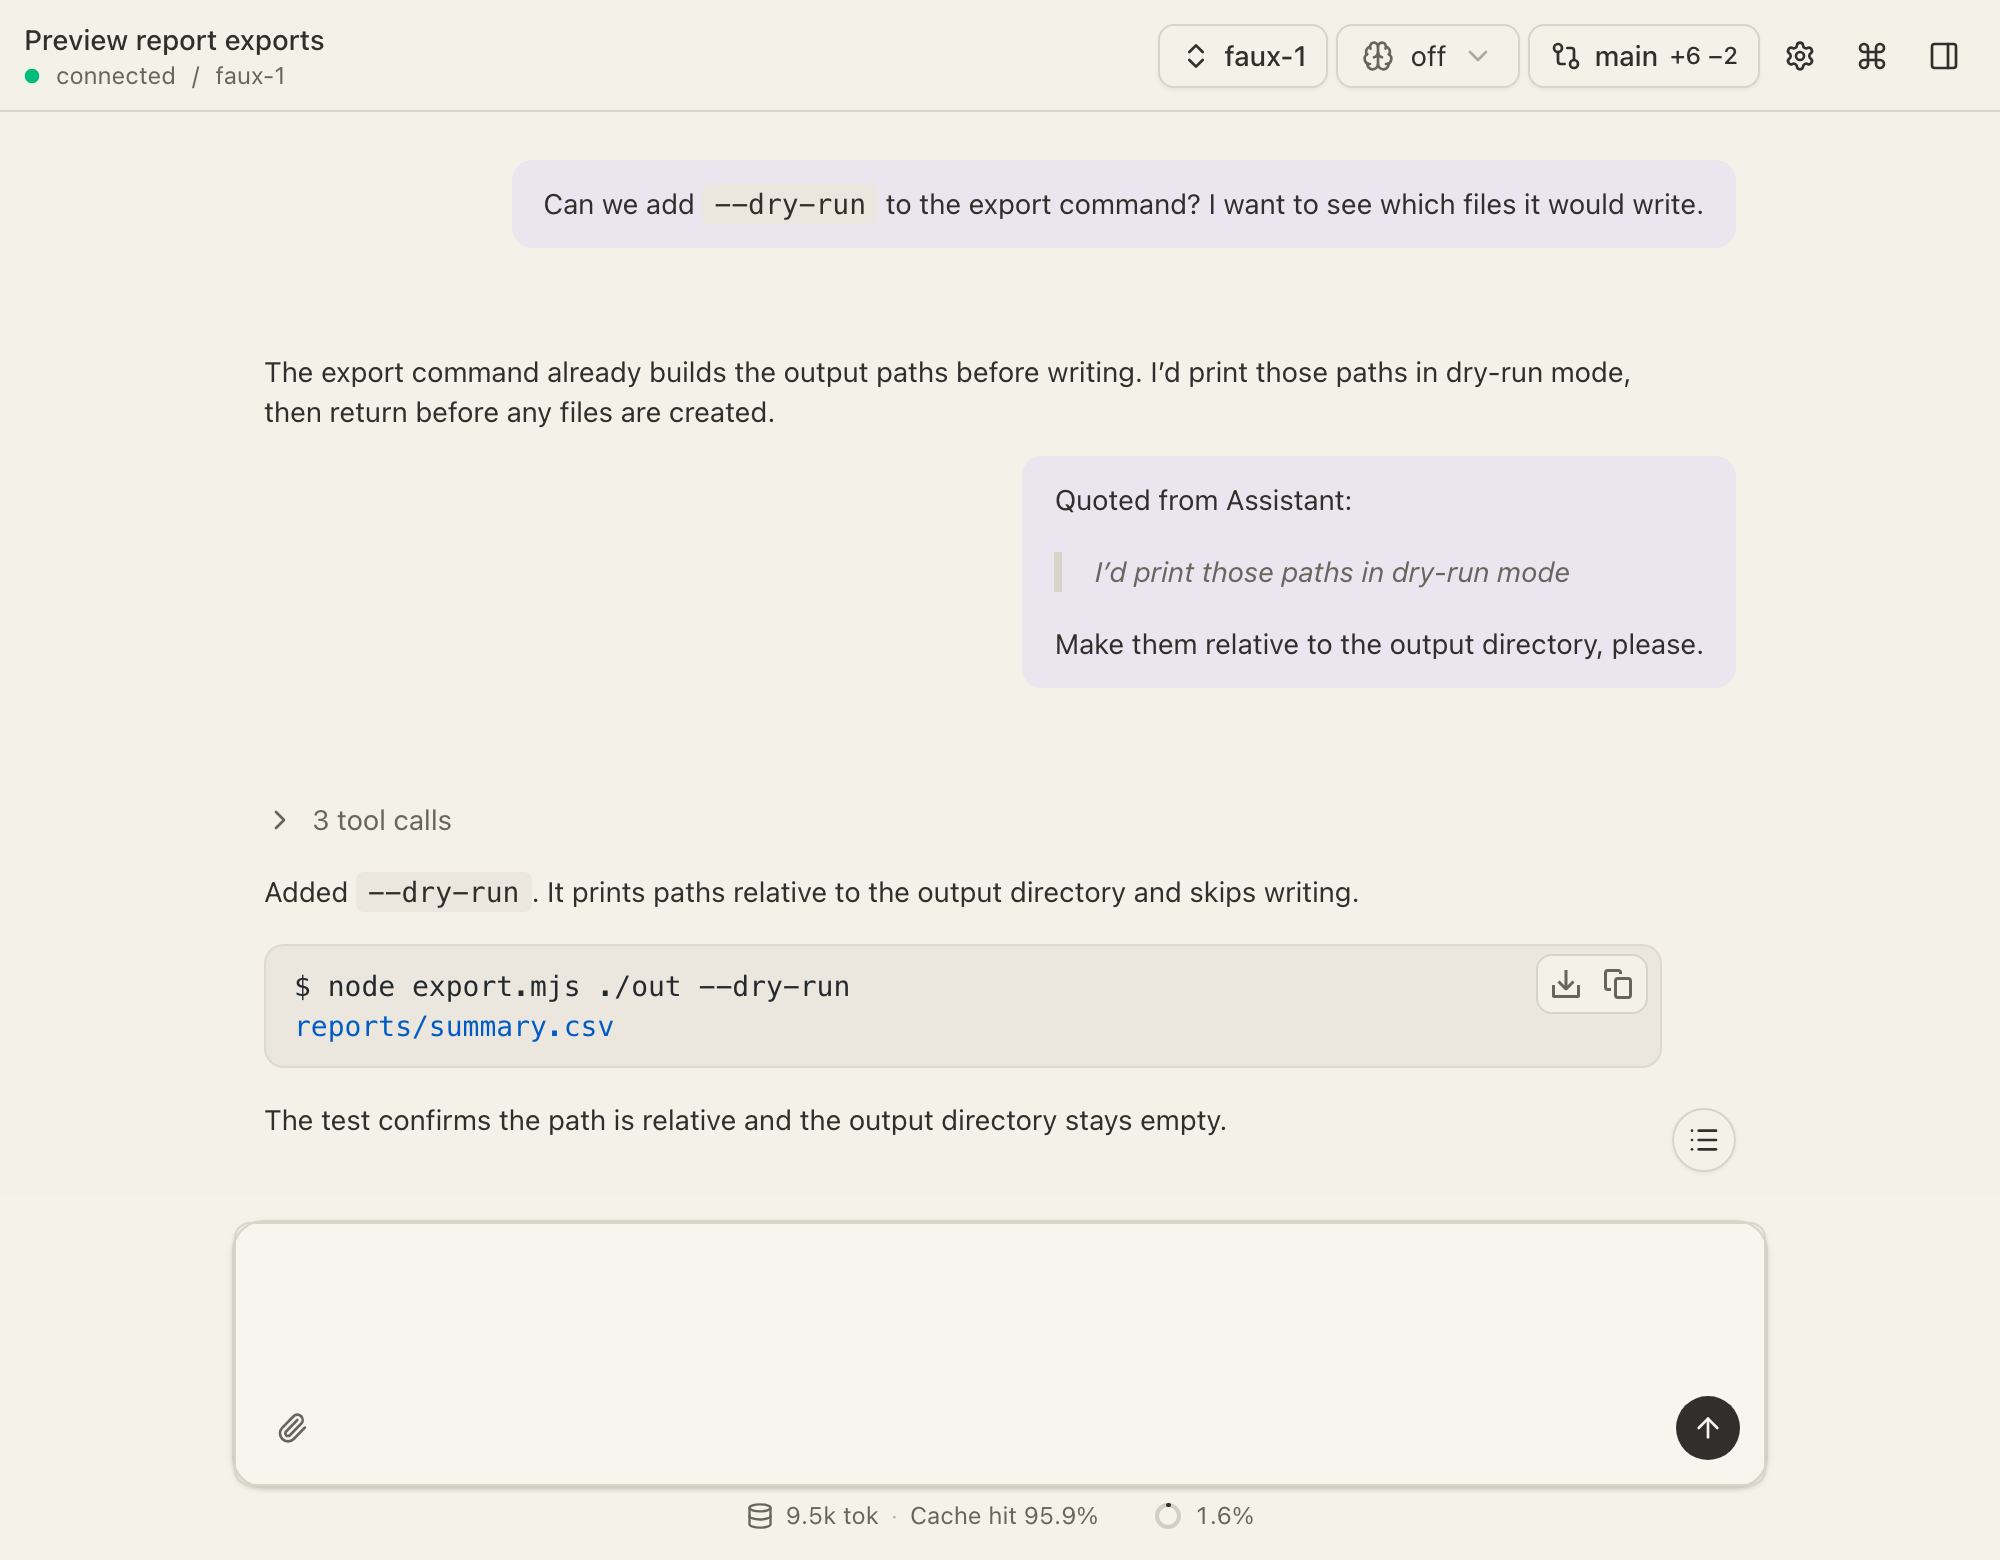
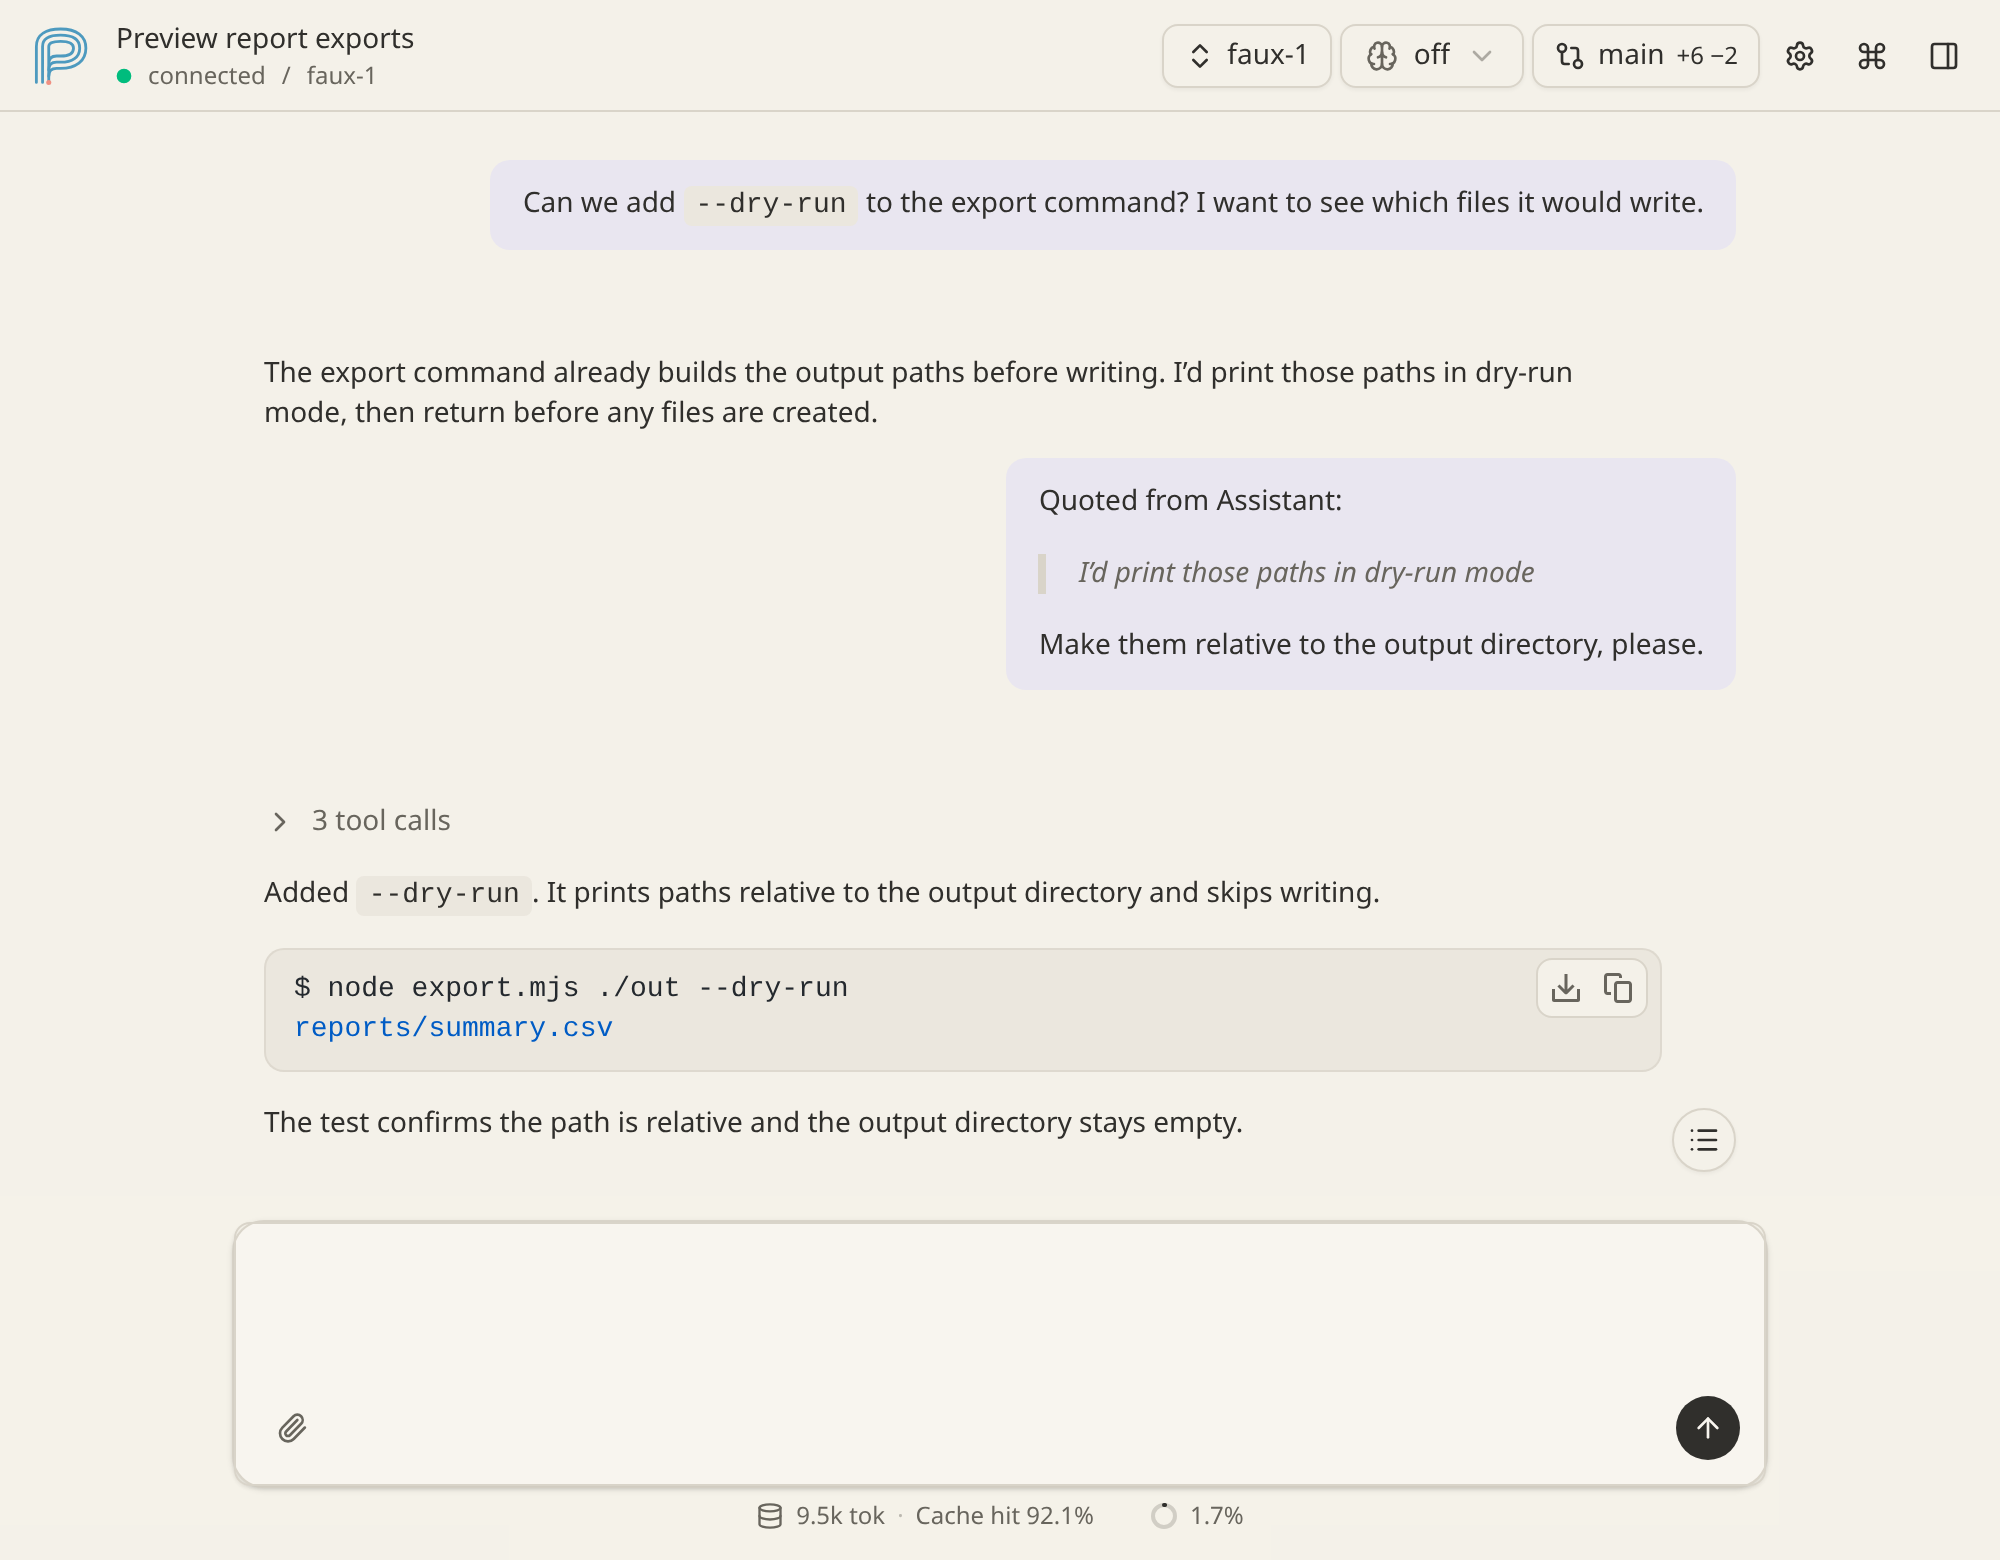
feat: add silk-thread P branding to Web UI (#42)

diff --git a/src/web/src/components/pi-web-ui/app-header.tsx b/src/web/src/components/pi-web-ui/app-header.tsx
@@ -55,13 +55,16 @@ export function AppHeader({
 }: AppHeaderProps) {
   return (
     <header className="flex min-h-14 flex-wrap shrink-0 items-center justify-between gap-2 border-b px-3 py-2">
-      <div className="min-w-0 w-full sm:w-auto sm:flex-1">
-        <div className="truncate font-medium text-sm">{title}</div>
-        <div className="flex items-center gap-2 text-muted-foreground text-xs">
-          <ConnectionDot state={connection} />
-          <span>{connection}</span>
-          <span>/</span>
-          <span className="truncate">{modelLabel}</span>
+      <div className="flex min-w-0 w-full items-center gap-2.5 sm:w-auto sm:flex-1">
+        <img alt="Pi Web UI" className="size-9 shrink-0" height={36} src="/logo.svg" width={36} />
+        <div className="min-w-0">
+          <div className="truncate font-medium text-sm">{title}</div>
+          <div className="flex items-center gap-2 text-muted-foreground text-xs">
+            <ConnectionDot state={connection} />
+            <span>{connection}</span>
+            <span>/</span>
+            <span className="truncate">{modelLabel}</span>
+          </div>
         </div>
       </div>
 

diff --git a/src/web/src/app.tsx b/src/web/src/app.tsx
@@ -1,11 +1,4 @@
-import {
-  ArchiveIcon,
-  BarChart3Icon,
-  DownloadIcon,
-  PanelLeftCloseIcon,
-  PanelLeftOpenIcon,
-  TerminalIcon,
-} from "lucide-react";
+import { ArchiveIcon, BarChart3Icon, DownloadIcon, PanelLeftCloseIcon, PanelLeftOpenIcon } from "lucide-react";
 import { useCallback, useEffect, useMemo, useRef, useState } from "react";
 import {
   Conversation,
@@ -389,7 +382,7 @@ export function App() {
                   {items.length === 0 ? (
                     <ConversationEmptyState
                       description="Connect to the running Pi session and send a message."
-                      icon={<TerminalIcon className="size-7" />}
+                      icon={<img alt="" className="size-16" height={64} src="/logo.svg" width={64} />}
                       title="Pi Web UI"
                     />
                   ) : (

diff --git a/public/sw.js b/public/sw.js
@@ -1,13 +1,20 @@
 // Pi Web UI Service Worker — minimal, just enables PWA install
 // No aggressive caching since Pi Web UI connects to a live local server
 
-const CACHE_NAME = "pi-web-ui-v1";
+const CACHE_NAME = "pi-web-ui-v2";
 
 // Cache only the app shell on install
 self.addEventListener("install", (event) => {
   event.waitUntil(
     caches.open(CACHE_NAME).then((cache) => {
-      return cache.addAll(["/", "/manifest.json", "/icons/tau-192.png", "/icons/tau-512.png"]);
+      return cache.addAll([
+        "/",
+        "/manifest.json",
+        "/logo.svg",
+        "/favicon.svg",
+        "/icons/pi-web-ui-192.png",
+        "/icons/pi-web-ui-512.png",
+      ]);
     }),
   );
   self.skipWaiting();

diff --git a/src/web/index.html b/src/web/index.html
@@ -4,7 +4,7 @@
     <meta charset="UTF-8" />
     <meta name="viewport" content="width=device-width, initial-scale=1.0" />
     <title>Pi Web UI</title>
-    <link rel="icon" type="image/png" href="/icons/pi-web-ui-192.png" />
+    <link rel="icon" type="image/svg+xml" sizes="any" href="/favicon.svg" />
     <link rel="manifest" href="/manifest.json" />
     <meta name="theme-color" content="#09090b" />
   </head>

diff --git a/docs/branding.md b/docs/branding.md
@@ -1,0 +1,23 @@
+# Pi Web UI logo
+
+The logo is a silk-thread **P**: blue (`#4D9ABF`) strands with a coral
+(`#F09082`) endpoint, on a transparent background.
+
+- `public/logo.svg`: three strands for the page header and empty state.
+- `public/favicon.svg`: two thicker strands for browser tabs and install icons.
+- `public/icons/pi-web-ui-maskable.svg`: the two-strand mark scaled to 70% on
+  an opaque warm background (`#f5f3ef`). The extra space keeps the mark inside
+  the maskable icon's central safe circle. This background is only for OS
+  icon masks; the website logo and favicon remain transparent.
+
+The SVGs are the editable sources. Regenerate the PNG install icons with
+[Inkscape](https://inkscape.org/) from the repository root:
+
+```bash
+inkscape public/favicon.svg --export-width=192 --export-filename=public/icons/pi-web-ui-192.png
+inkscape public/favicon.svg --export-width=512 --export-filename=public/icons/pi-web-ui-512.png
+inkscape public/icons/pi-web-ui-maskable.svg --export-width=512 --export-filename=public/icons/pi-web-ui-maskable-512.png
+```
+
+Check the favicon at 16px and 32px, and the page logo on light and dark themes,
+when changing the paths or colors.
